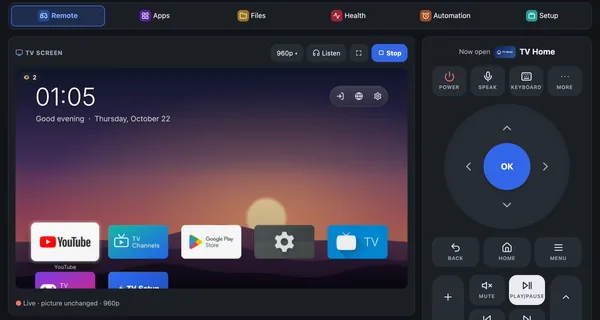
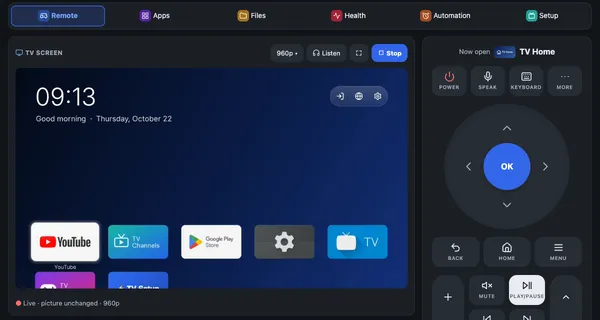
Site and READMEs: TV Home pictures use the Midnight wallpaper (clean, widgets, web remote, guide, demo with Midnight as its first wallpaper); README: TV Games picture and line
Claude-Session: https://claude.ai/code/session_01VniwkGfJmfjur9oWWJ2baz

diff --git a/docs/demo/home.html b/docs/demo/home.html
@@ -134,8 +134,8 @@
     { id: 'zing', n: 'Zing TV', c: 'zk', h: 'Zing TV' }
   ];
   var BY = {}; APPS.forEach(function (a) { BY[a.id] = a; });
-  var WALLS = ['dawn', 'peaks', 'dunes', 'waves', 'candy', 'bokeh', 'canyon'].map(function (id) {
-    var n = { dawn: T('Bình minh', 'Dawn'), peaks: T('Đỉnh núi', 'Peaks'), dunes: T('Đồi cát', 'Dunes'), waves: T('Sóng', 'Waves'), candy: T('Kẹo', 'Candy'), bokeh: T('Bokeh', 'Bokeh'), canyon: T('Hẻm núi', 'Canyon') }[id];
+  var WALLS = ['midnight', 'dawn', 'peaks', 'dunes', 'waves', 'candy', 'bokeh', 'canyon'].map(function (id) {
+    var n = { midnight: T('Xanh đêm', 'Midnight'), dawn: T('Bình minh', 'Dawn'), peaks: T('Đỉnh núi', 'Peaks'), dunes: T('Đồi cát', 'Dunes'), waves: T('Sóng', 'Waves'), candy: T('Kẹo', 'Candy'), bokeh: T('Bokeh', 'Bokeh'), canyon: T('Hẻm núi', 'Canyon') }[id];
     return { id: id, n: n };
   });
   var S = { dock: [], hidden: [], wall: 0, widgets: false, h24: true, greet: true, before: false, f: { z: 'grid', i: 0 }, over: null };
@@ -165,9 +165,15 @@
       '<div class="days"><div>T5<br>32° 25°</div><div>T6<br>32° 24°</div><div>T7<br>32° 24°</div></div></div>' +
       '<div class="w n glass"><small><span>' + T('Ghi chú', 'Note') + '</span></small><div class="note">' + T('Mua sữa, 8 giờ tối gọi mẹ', 'Buy milk, call mum at 8') + '<em>' + T('Giả lập: sửa từ điện thoại', 'Made up: edit from the phone') + '</em></div></div>';
   }
+  // a plain gradient of the app (HomeActivity.wallColors), corner to corner like the drawn ones
+  function wallPaint(ctx, w, h, id) {
+    if (id !== 'midnight') return homeArtPaint(ctx, w, h, id);
+    var g = ctx.createLinearGradient(0, 0, w, h); g.addColorStop(0, '#050a1a'); g.addColorStop(.5, '#0b1b45'); g.addColorStop(1, '#14307a');
+    ctx.fillStyle = g; ctx.fillRect(0, 0, w, h);
+  }
   function wallpaper() {
     var c = $('#bg'), id = WALLS[S.wall].id; if (c.dataset.id === id) return;
-    c.dataset.id = id; homeArtPaint(c.getContext('2d'), 1280, 720, id);
+    c.dataset.id = id; wallPaint(c.getContext('2d'), 1280, 720, id);
   }
   function draw() {
     clock(); widgets(); wallpaper();
@@ -301,7 +307,7 @@
   $('#bWidgets').onclick = function () { S.widgets = !S.widgets; draw(); };
   WALLS.forEach(function (w, i) {
     var b = document.createElement('button'), cv = document.createElement('canvas'); b.type = 'button'; b.className = 'swatch'; b.title = w.n; b.setAttribute('aria-label', w.n);
-    cv.width = 88; cv.height = 50; cv.style.cssText = 'display:block;width:100%;height:100%;border-radius:6px'; homeArtPaint(cv.getContext('2d'), 88, 50, w.id); b.appendChild(cv);
+    cv.width = 88; cv.height = 50; cv.style.cssText = 'display:block;width:100%;height:100%;border-radius:6px'; wallPaint(cv.getContext('2d'), 88, 50, w.id); b.appendChild(cv);
     b.onclick = function () { S.wall = i; if (S.before) S.before = false; draw(); };
     $('#walls').appendChild(b);
   });

diff --git a/README.md b/README.md
@@ -44,6 +44,7 @@ Tested for real on a Sony BRAVIA (Android 9). Other brands are untested; LG, Sam
 - **Scenes** (several steps in one tap), widget and Quick Settings tiles, game controller, Home Assistant and Siri Shortcuts.
 - **TV Home**, a home screen without ads, set up from your phone or computer: favourite apps, hidden apps, your own background, widgets (system stats, most used apps and limits, month calendar with lunar days, lunar calendar, sleep timer, weather, a pinned note) (the background, clock and motion can also be changed on the TV itself). Or pick another launcher from the gallery.
 - **TV Channels**, free TV channels on the TV from iptv-org's public lists and VieON's free channels, with the programme guide (VN): by country and category, favourites and your own groups, pinned to the home screen, opened by name from the phone ("open channel VTV1").
+- **TV Games**, retro and web games on the TV with phones as pads (the QR on the TV, no ADB needed).
 - **Optional extras on the TV** ("Optimize TV"): faster, lighter, and fully undoable.
 
 Every feature, with screenshots: [tvremote.pages.dev](https://tvremote.pages.dev/?lang=en).
@@ -155,6 +156,14 @@ Two more apps for the TV, free and without ads. Both are set up from the phone o
 - Own language in the side list (*Language*): follow the TV, Tiếng Việt or English.
 - Favourites and groups managed from the phone, computer or the TV's web page (*Manage channels*: search, ☆, groups, reorder), not only with the D-pad.
 - Installed from the phone or computer (TV tab → 📺 card → *Install TV Channels*).
+
+<p align="center"><img src="docs/img/tv-games-en.webp" width="720" alt="TV Games: retro and web games on the TV"><br><sub>TV Games</sub></p>
+
+**🎮 TV Games** plays retro and web games on the TV, with phones as pads.
+
+- Retro games (libretro cores) and web games; free homebrew suggested in the app.
+- Up to 4 phones as pads: scan the QR on the TV, no ADB and no TV Setup needed.
+- Not yet installed from the phone or computer app.
 
 | App | Downloader code | File |
 |---|---|---|

diff --git a/README.vi.md b/README.vi.md
@@ -159,6 +159,14 @@ Thêm 2 app cho TV, miễn phí, không quảng cáo. Cài và chỉnh từ app 
 - Quản lý yêu thích và nhóm ngay từ điện thoại, máy tính hoặc trang web của TV (*Quản lý kênh*: tìm, ☆, nhóm, sắp xếp), không phải bấm D-pad.
 - Cài từ điện thoại / máy tính (tab TV → 📺 *Kênh TV* → Cài).
 
+<p align="center"><img src="docs/img/tv-games-vi.webp" width="720" alt="TV Games: game retro và game web trên TV"><br><sub>TV Games</sub></p>
+
+**🎮 TV Games** chơi game retro và game web trên TV, dùng điện thoại làm tay cầm.
+
+- Game retro (libretro core) và game web; app gợi ý sẵn game homebrew miễn phí.
+- Tối đa 4 điện thoại làm tay cầm: quét QR trên TV, không cần ADB hay TV Setup.
+- Chưa cài được từ app điện thoại / máy tính.
+
 | App | Mã Downloader | Tệp |
 |---|---|---|
 | TV Home | **`4356026`** | [tv-home.apk](https://github.com/HoangTran0410/tv-remote/releases/latest/download/tv-home.apk) |
